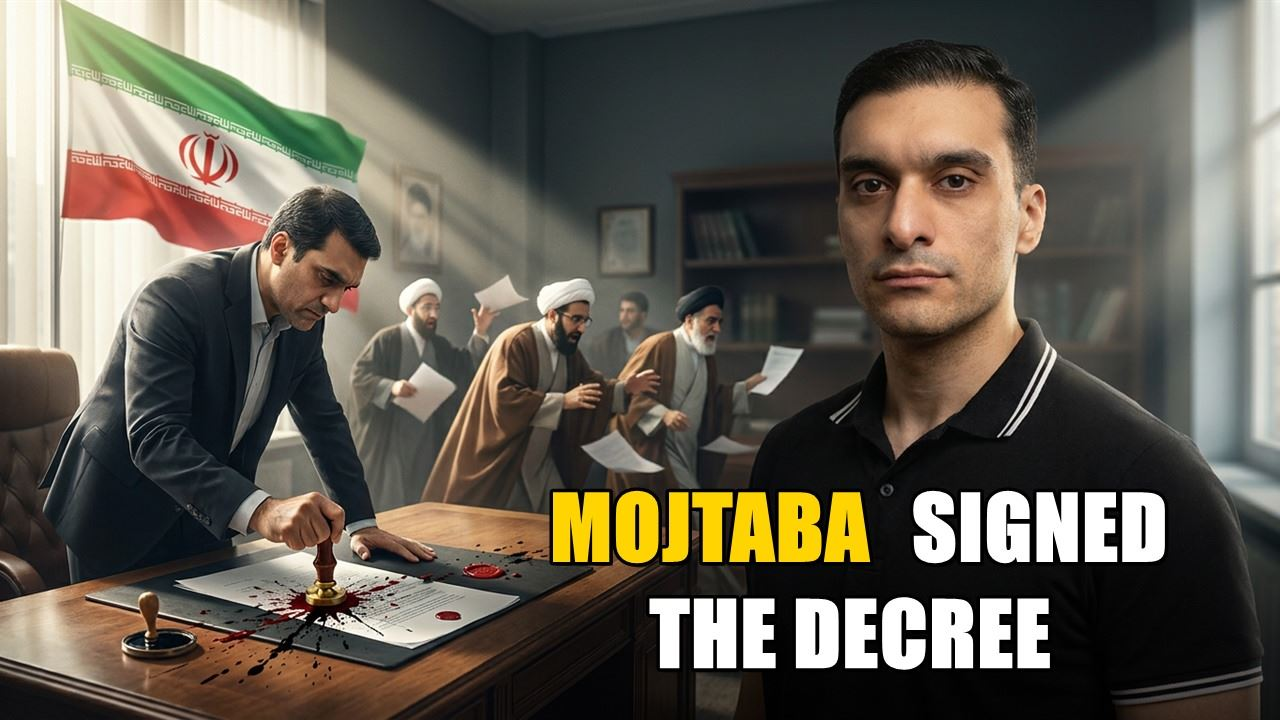
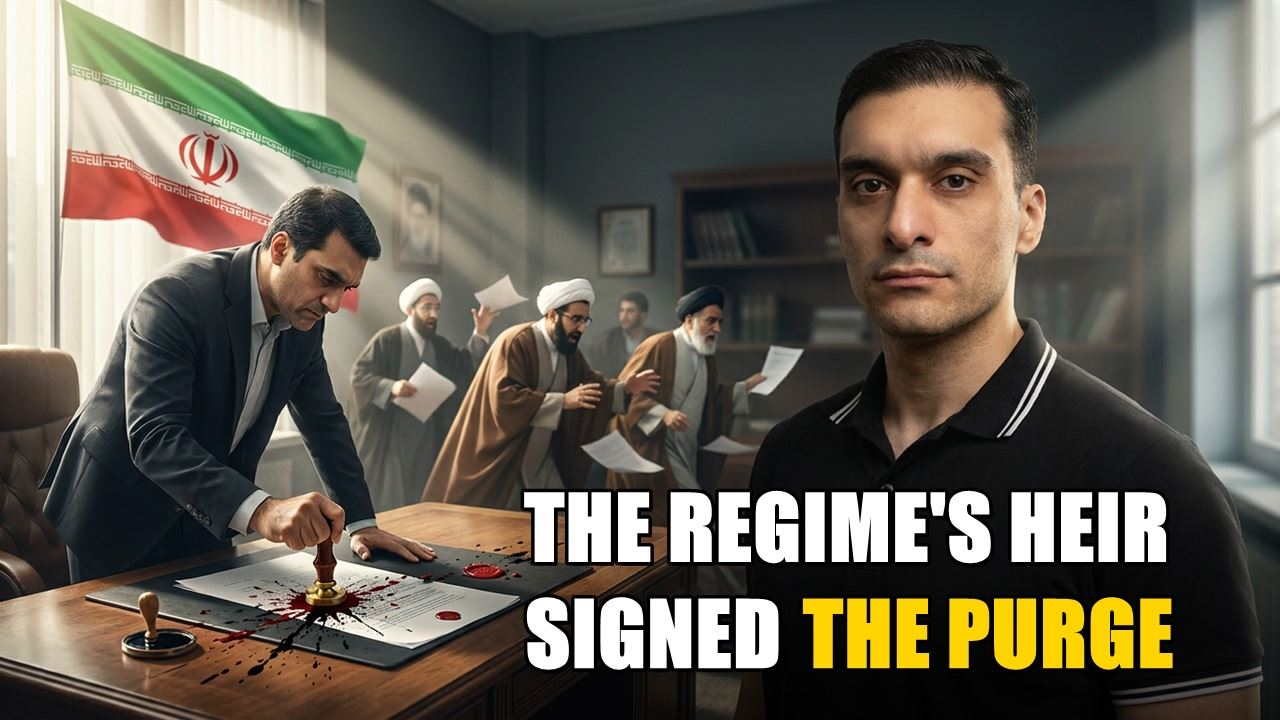
dashboards 2026-08-23T09:31:10Z

Changed region(s): [[0.4062, 0.825, 0.9375, 0.9472], [0.4062, 0.6722, 0.9062, 0.7944]]

diff --git a/armin-shows.html b/armin-shows.html
@@ -270,9 +270,9 @@ dialog img{display:block;max-width:94vw;max-height:88vh}
 </header>
 
 <!-- Self-checking freshness banner: the page compares its own build time against the clock. -->
-<div id="freshbar" class="fresh" data-built="2026-08-23T09:08:21Z">
+<div id="freshbar" class="fresh" data-built="2026-08-23T09:31:08Z">
   <div class="fresh-l">
-    <b id="freshtitle">This page was updated Sun Aug 23, 17:08</b>
+    <b id="freshtitle">This page was updated Sun Aug 23, 17:31</b>
     <span id="freshage"></span>
   </div>
   <span class="newtoday" id="newtoday" data-new="4"
@@ -2761,7 +2761,7 @@ Join our daily group calls: https://www.skool.com/libertypolitics/about</p>
     <div class="vidwhy" hidden><textarea class="vidtext" rows="2" placeholder="Why are you not using this video? e.g. it starts in the middle of a sentence; it repeats the same point twice; the ending is cut off"></textarea></div>
     <div class="means none" aria-live="polite">Not answered yet.</div>
   </div>
-  <div class="cliptime">Added Aug 13 &middot; Covers made Aug 13 &middot; Ready Aug 13 &middot; <b>4:19</b> <span class="nomid">no mid-roll</span></div>
+  <div class="cliptime">Added Aug 13 &middot; Covers made Aug 13 &middot; Ready Aug 23 &middot; <b>4:19</b> <span class="nomid">no mid-roll</span></div>
   <div class="covers">
     <div class="cov" data-var="A" data-head="45 SOVIET GOALS FILED IN CONGRESS" data-title="The 1963 List That Named Every Target: Culture, Media, Schools, Politics, Courts">
       <button class="zoombtn" type="button" aria-label="Enlarge cover A"><img src="img/2026-08-13-english-S2-A.jpg" alt="Cover A: 45 SOVIET GOALS FILED IN CONGRESS" loading="lazy"><span class="zoomhint">Tap to enlarge</span></button>
@@ -2866,7 +2866,7 @@ Join our daily group calls: https://www.skool.com/libertypolitics/about</p>
     <div class="vidwhy" hidden><textarea class="vidtext" rows="2" placeholder="Why are you not using this video? e.g. it starts in the middle of a sentence; it repeats the same point twice; the ending is cut off"></textarea></div>
     <div class="means none" aria-live="polite">Not answered yet.</div>
   </div>
-  <div class="cliptime">Added Aug 13 &middot; Covers made Aug 13 &middot; Ready Aug 13 &middot; <b>4:16</b> <span class="nomid">no mid-roll</span></div>
+  <div class="cliptime">Added Aug 13 &middot; Covers made Aug 13 &middot; Ready Aug 23 &middot; <b>4:16</b> <span class="nomid">no mid-roll</span></div>
   <div class="covers">
     <div class="cov" data-var="C" data-head="TALK TO YOUR MOTHER ABOUT HER GOVERNOR" data-title="Stop Arguing Left Versus Right and Start Arguing Policy (It Works on Family)">
       <button class="zoombtn" type="button" aria-label="Enlarge cover C"><img src="img/2026-08-13-english-S3-C.jpg" alt="Cover C: TALK TO YOUR MOTHER ABOUT HER GOVERNOR" loading="lazy"><span class="zoomhint">Tap to enlarge</span></button>
@@ -2971,7 +2971,7 @@ Join our daily group calls: https://www.skool.com/libertypolitics/about</p>
     <div class="vidwhy" hidden><textarea class="vidtext" rows="2" placeholder="Why are you not using this video? e.g. it starts in the middle of a sentence; it repeats the same point twice; the ending is cut off"></textarea></div>
     <div class="means none" aria-live="polite">Not answered yet.</div>
   </div>
-  <div class="cliptime">Added Aug 13 &middot; Covers made Aug 13 &middot; Ready Aug 13 &middot; <b>5:13</b> <span class="nomid">no mid-roll</span></div>
+  <div class="cliptime">Added Aug 13 &middot; Covers made Aug 13 &middot; Ready Aug 23 &middot; <b>5:13</b> <span class="nomid">no mid-roll</span></div>
   <div class="covers">
     <div class="cov" data-var="A" data-head="ONE PERCENT DECIDES FOUR SWING STATES" data-title="Michigan, Pennsylvania, Georgia, Arizona: How a Tiny Bloc Got This Much Leverage">
       <button class="zoombtn" type="button" aria-label="Enlarge cover A"><img src="img/2026-08-13-english-S4-A.jpg" alt="Cover A: ONE PERCENT DECIDES FOUR SWING STATES" loading="lazy"><span class="zoomhint">Tap to enlarge</span></button>
@@ -3076,7 +3076,7 @@ Join our daily group calls: https://www.skool.com/libertypolitics/about</p>
     <div class="vidwhy" hidden><textarea class="vidtext" rows="2" placeholder="Why are you not using this video? e.g. it starts in the middle of a sentence; it repeats the same point twice; the ending is cut off"></textarea></div>
     <div class="means none" aria-live="polite">Not answered yet.</div>
   </div>
-  <div class="cliptime">Added Aug 13 &middot; Covers made Aug 13 &middot; Ready Aug 13 &middot; <b>10:56</b></div>
+  <div class="cliptime">Added Aug 13 &middot; Covers made Aug 13 &middot; Ready Aug 23 &middot; <b>10:56</b></div>
   <div class="covers">
     <div class="cov" data-var="A" data-head="PURGE THE DSA OR LOSE THE PARTY" data-title="Callers Say the DNC Has to Treat Its Own Left Flank as the Enemy">
       <button class="zoombtn" type="button" aria-label="Enlarge cover A"><img src="img/2026-08-13-english-S5-A.jpg" alt="Cover A: PURGE THE DSA OR LOSE THE PARTY" loading="lazy"><span class="zoomhint">Tap to enlarge</span></button>
@@ -3181,7 +3181,7 @@ Join our daily group calls: https://www.skool.com/libertypolitics/about</p>
     <div class="vidwhy" hidden><textarea class="vidtext" rows="2" placeholder="Why are you not using this video? e.g. it starts in the middle of a sentence; it repeats the same point twice; the ending is cut off"></textarea></div>
     <div class="means none" aria-live="polite">Not answered yet.</div>
   </div>
-  <div class="cliptime">Added Aug 13 &middot; Covers made Aug 13 &middot; Ready Aug 13 &middot; <b>9:39</b></div>
+  <div class="cliptime">Added Aug 13 &middot; Covers made Aug 13 &middot; Ready Aug 23 &middot; <b>9:39</b></div>
   <div class="covers">
     <div class="cov" data-var="A" data-head="YOUR PLUMBER IS NOT AI" data-title="The Trades Are the One Career a Machine Cannot Take From You">
       <button class="zoombtn" type="button" aria-label="Enlarge cover A"><img src="img/2026-08-13-english-S6-A.jpg" alt="Cover A: YOUR PLUMBER IS NOT AI" loading="lazy"><span class="zoomhint">Tap to enlarge</span></button>
@@ -3286,7 +3286,7 @@ Join our daily group calls: https://www.skool.com/libertypolitics/about</p>
     <div class="vidwhy" hidden><textarea class="vidtext" rows="2" placeholder="Why are you not using this video? e.g. it starts in the middle of a sentence; it repeats the same point twice; the ending is cut off"></textarea></div>
     <div class="means none" aria-live="polite">Not answered yet.</div>
   </div>
-  <div class="cliptime">Added Aug 13 &middot; Covers made Aug 13 &middot; Ready Aug 13 &middot; <b>5:39</b> <span class="nomid">no mid-roll</span></div>
+  <div class="cliptime">Added Aug 13 &middot; Covers made Aug 13 &middot; Ready Aug 23 &middot; <b>5:39</b> <span class="nomid">no mid-roll</span></div>
   <div class="covers">
     <div class="cov" data-var="A" data-head="686,263 VOTES, DOWN FROM 1.3 MILLION" data-title="Wisconsin&#39;s Turnout Just Collapsed (And Both Parties Should Be Worried)">
       <button class="zoombtn" type="button" aria-label="Enlarge cover A"><img src="img/2026-08-13-english-S7-A.jpg" alt="Cover A: 686,263 VOTES, DOWN FROM 1.3 MILLION" loading="lazy"><span class="zoomhint">Tap to enlarge</span></button>
@@ -3391,7 +3391,7 @@ Join our daily group calls: https://www.skool.com/libertypolitics/about</p>
     <div class="vidwhy" hidden><textarea class="vidtext" rows="2" placeholder="Why are you not using this video? e.g. it starts in the middle of a sentence; it repeats the same point twice; the ending is cut off"></textarea></div>
     <div class="means none" aria-live="polite">Not answered yet.</div>
   </div>
-  <div class="cliptime">Added Aug 13 &middot; Covers made Aug 22 &middot; Ready Aug 13 &middot; <b>12:58</b></div>
+  <div class="cliptime">Added Aug 13 &middot; Covers made Aug 23 &middot; Ready Aug 23 &middot; <b>12:58</b></div>
   <div class="covers">
     <div class="cov" data-var="A" data-head="GLOBAL TRADE IS AMERICA&#39;S REAL POWER" data-title="Self-Reliance and Isolationism Are Not the Same Word, and the Difference Matters">
       <button class="zoombtn" type="button" aria-label="Enlarge cover A"><img src="img/2026-08-13-english-S8-A.jpg" alt="Cover A: GLOBAL TRADE IS AMERICA&#39;S REAL POWER" loading="lazy"><span class="zoomhint">Tap to enlarge</span></button>
@@ -3417,8 +3417,8 @@ Join our daily group calls: https://www.skool.com/libertypolitics/about</p>
       </div>
       <div class="covwhy" hidden><textarea class="whytext" rows="2" placeholder="Why not this cover? A few words is enough. e.g. that is not Armin, text covers his face, the hosts are too small"></textarea></div>
     </div>
-    <div class="cov" data-var="B" data-head="WHO MARGARET SANGER CALLED UNDESIRABLE" data-title="The Founder&#39;s Own Words, and Where the Clinics Were Actually Built">
-      <button class="zoombtn" type="button" aria-label="Enlarge cover B"><img src="img/2026-08-13-english-S8-B.jpg" alt="Cover B: WHO MARGARET SANGER CALLED UNDESIRABLE" loading="lazy"><span class="zoomhint">Tap to enlarge</span></button>
+    <div class="cov" data-var="B" data-head="THE CLINIC CALLED THEM UNDESIRABLE" data-title="The Founder&#39;s Own Words, and Where the Clinics Were Actually Built">
+      <button class="zoombtn" type="button" aria-label="Enlarge cover B"><img src="img/2026-08-13-english-S8-B.jpg" alt="Cover B: THE CLINIC CALLED THEM UNDESIRABLE" loading="lazy"><span class="zoomhint">Tap to enlarge</span></button>
       <div class="covdec">
         <div class="decq">&#128444;&#65039; This cover B</div>
         <div class="decbtns">
@@ -3496,7 +3496,7 @@ Join our daily group calls: https://www.skool.com/libertypolitics/about</p>
     <div class="vidwhy" hidden><textarea class="vidtext" rows="2" placeholder="Why are you not using this video? e.g. it starts in the middle of a sentence; it repeats the same point twice; the ending is cut off"></textarea></div>
     <div class="means none" aria-live="polite">Not answered yet.</div>
   </div>
-  <div class="cliptime">Added Aug 13 &middot; Covers made Aug 13 &middot; Ready Aug 13 &middot; <b>14:20</b></div>
+  <div class="cliptime">Added Aug 13 &middot; Covers made Aug 13 &middot; Ready Aug 23 &middot; <b>14:20</b></div>
   <div class="covers">
     <div class="cov" data-var="A" data-head="TWO THOUSAND SQUARE KILOMETRES OF OIL" data-title="700 Fish Species, 60 Coral Reefs and Five Kinds of Sea Turtle Are In It">
       <button class="zoombtn" type="button" aria-label="Enlarge cover A"><img src="img/2026-08-13-english-S9-A.jpg" alt="Cover A: TWO THOUSAND SQUARE KILOMETRES OF OIL" loading="lazy"><span class="zoomhint">Tap to enlarge</span></button>
@@ -3601,7 +3601,7 @@ Join our daily group calls: https://www.skool.com/libertypolitics/about</p>
     <div class="vidwhy" hidden><textarea class="vidtext" rows="2" placeholder="Why are you not using this video? e.g. it starts in the middle of a sentence; it repeats the same point twice; the ending is cut off"></textarea></div>
     <div class="means none" aria-live="polite">Not answered yet.</div>
   </div>
-  <div class="cliptime">Added Aug 13 &middot; Covers made Aug 13 &middot; Ready Aug 13 &middot; <b>2:43</b> <span class="nomid">no mid-roll</span></div>
+  <div class="cliptime">Added Aug 13 &middot; Covers made Aug 13 &middot; Ready Aug 23 &middot; <b>2:43</b> <span class="nomid">no mid-roll</span></div>
   <div class="covers">
     <div class="cov" data-var="A" data-head="850 DETAINED? NOBODY CAN SOURCE IT" data-title="Reports of Mass Arrests of Iranian Rabbis, Checked Live On Air">
       <button class="zoombtn" type="button" aria-label="Enlarge cover A"><img src="img/2026-08-13-english-S10-A.jpg" alt="Cover A: 850 DETAINED? NOBODY CAN SOURCE IT" loading="lazy"><span class="zoomhint">Tap to enlarge</span></button>
@@ -3706,7 +3706,7 @@ Join our daily group calls: https://www.skool.com/libertypolitics/about</p>
     <div class="vidwhy" hidden><textarea class="vidtext" rows="2" placeholder="Why are you not using this video? e.g. it starts in the middle of a sentence; it repeats the same point twice; the ending is cut off"></textarea></div>
     <div class="means none" aria-live="polite">Not answered yet.</div>
   </div>
-  <div class="cliptime">Added Aug 13 &middot; Covers made Aug 13 &middot; Ready Aug 13 &middot; <b>17:13</b></div>
+  <div class="cliptime">Added Aug 13 &middot; Covers made Aug 13 &middot; Ready Aug 23 &middot; <b>17:13</b></div>
   <div class="covers">
     <div class="cov" data-var="A" data-head="THE UK BANNED HASAN PIKER" data-title="The Home Office Called Him a Risk to Public Order, and Made Him Bigger">
       <button class="zoombtn" type="button" aria-label="Enlarge cover A"><img src="img/2026-08-13-english-S11-A.jpg" alt="Cover A: THE UK BANNED HASAN PIKER" loading="lazy"><span class="zoomhint">Tap to enlarge</span></button>
@@ -5446,7 +5446,7 @@ Join our daily group calls: https://www.skool.com/libertypolitics/about</p>
     <div class="vidwhy" hidden><textarea class="vidtext" rows="2" placeholder="Why are you not using this video? e.g. it starts in the middle of a sentence; it repeats the same point twice; the ending is cut off"></textarea></div>
     <div class="means none" aria-live="polite">Not answered yet.</div>
   </div>
-  <div class="cliptime">Added Aug 9 &middot; Covers made Aug 10 &middot; Ready Aug 22 &middot; <b>3:10</b> <span class="nomid">no mid-roll</span></div>
+  <div class="cliptime">Added Aug 9 &middot; Covers made Aug 10 &middot; Ready Aug 23 &middot; <b>3:10</b> <span class="nomid">no mid-roll</span></div>
   <div class="covers">
     <div class="cov" data-var="A" data-head="THE REGIME WANTS WAR DAMAGES PAID" data-title="Iran Is Now Asking America to Cover Its Losses">
       <button class="zoombtn" type="button" aria-label="Enlarge cover A"><img src="img/2026-08-10-english-S1-A.jpg" alt="Cover A: THE REGIME WANTS WAR DAMAGES PAID" loading="lazy"><span class="zoomhint">Tap to enlarge</span></button>
@@ -5551,7 +5551,7 @@ Join our daily group calls: https://www.skool.com/libertypolitics/about</p>
     <div class="vidwhy" hidden><textarea class="vidtext" rows="2" placeholder="Why are you not using this video? e.g. it starts in the middle of a sentence; it repeats the same point twice; the ending is cut off"></textarea></div>
     <div class="means none" aria-live="polite">Not answered yet.</div>
   </div>
-  <div class="cliptime">Added Aug 9 &middot; Covers made Aug 10 &middot; Ready Aug 22 &middot; <b>6:35</b> <span class="nomid">no mid-roll</span></div>
+  <div class="cliptime">Added Aug 9 &middot; Covers made Aug 10 &middot; Ready Aug 23 &middot; <b>6:35</b> <span class="nomid">no mid-roll</span></div>
   <div class="covers">
     <div class="cov" data-var="A" data-head="TEHRAN&#39;S CLERIC WANTS A STRIKE" data-title="The Mullah Telling Iran to Build the Bomb and Fire It">
       <button class="zoombtn" type="button" aria-label="Enlarge cover A"><img src="img/2026-08-10-english-S2-A.jpg" alt="Cover A: TEHRAN&#39;S CLERIC WANTS A STRIKE" loading="lazy"><span class="zoomhint">Tap to enlarge</span></button>
@@ -5656,7 +5656,7 @@ Join our daily group calls: https://www.skool.com/libertypolitics/about</p>
     <div class="vidwhy" hidden><textarea class="vidtext" rows="2" placeholder="Why are you not using this video? e.g. it starts in the middle of a sentence; it repeats the same point twice; the ending is cut off"></textarea></div>
     <div class="means none" aria-live="polite">Not answered yet.</div>
   </div>
-  <div class="cliptime">Added Aug 9 &middot; Covers made Aug 10 &middot; Ready Aug 22 &middot; <b>2:45</b> <span class="nomid">no mid-roll</span></div>
+  <div class="cliptime">Added Aug 9 &middot; Covers made Aug 10 &middot; Ready Aug 23 &middot; <b>2:45</b> <span class="nomid">no mid-roll</span></div>
   <div class="covers">
     <div class="cov" data-var="A" data-head="THREE RULERS ONE COUNTRY" data-title="Iran Has No Single Government Left to Negotiate With">
       <button class="zoombtn" type="button" aria-label="Enlarge cover A"><img src="img/2026-08-10-english-S3-A.jpg" alt="Cover A: THREE RULERS ONE COUNTRY" loading="lazy"><span class="zoomhint">Tap to enlarge</span></button>
@@ -5737,7 +5737,7 @@ Join our daily group calls: https://www.skool.com/libertypolitics/about</p>
     <div class="vidwhy" hidden><textarea class="vidtext" rows="2" placeholder="Why are you not using this video? e.g. it starts in the middle of a sentence; it repeats the same point twice; the ending is cut off"></textarea></div>
     <div class="means none" aria-live="polite">Not answered yet.</div>
   </div>
-  <div class="cliptime">Added Aug 9 &middot; Covers made Aug 10 &middot; Ready Aug 22 &middot; <b>1:35</b> <span class="nomid">no mid-roll</span></div>
+  <div class="cliptime">Added Aug 9 &middot; Covers made Aug 10 &middot; Ready Aug 23 &middot; <b>1:35</b> <span class="nomid">no mid-roll</span></div>
   <div class="covers">
     <div class="cov" data-var="A" data-head="THE PRESS INFLATED AN ARMY" data-title="How Newspapers Manufactured a Revolution in 1959">
       <button class="zoombtn" type="button" aria-label="Enlarge cover A"><img src="img/2026-08-10-english-S4-A.jpg" alt="Cover A: THE PRESS INFLATED AN ARMY" loading="lazy"><span class="zoomhint">Tap to enlarge</span></button>
@@ -5842,7 +5842,7 @@ Join our daily group calls: https://www.skool.com/libertypolitics/about</p>
     <div class="vidwhy" hidden><textarea class="vidtext" rows="2" placeholder="Why are you not using this video? e.g. it starts in the middle of a sentence; it repeats the same point twice; the ending is cut off"></textarea></div>
     <div class="means none" aria-live="polite">Not answered yet.</div>
   </div>
-  <div class="cliptime">Added Aug 9 &middot; Covers made Aug 10 &middot; Ready Aug 22 &middot; <b>2:26</b> <span class="nomid">no mid-roll</span></div>
+  <div class="cliptime">Added Aug 9 &middot; Covers made Aug 10 &middot; Ready Aug 23 &middot; <b>2:26</b> <span class="nomid">no mid-roll</span></div>
   <div class="covers">
     <div class="cov" data-var="A" data-head="WASHINGTON IS BUYING TIME" data-title="Why America Has Not Struck Iran Yet">
       <button class="zoombtn" type="button" aria-label="Enlarge cover A"><img src="img/2026-08-10-english-S5-A.jpg" alt="Cover A: WASHINGTON IS BUYING TIME" loading="lazy"><span class="zoomhint">Tap to enlarge</span></button>
@@ -5947,10 +5947,10 @@ Join our daily group calls: https://www.skool.com/libertypolitics/about</p>
     <div class="vidwhy" hidden><textarea class="vidtext" rows="2" placeholder="Why are you not using this video? e.g. it starts in the middle of a sentence; it repeats the same point twice; the ending is cut off"></textarea></div>
     <div class="means none" aria-live="polite">Not answered yet.</div>
   </div>
-  <div class="cliptime">Added Aug 9 &middot; Covers made Aug 22 &middot; Ready Aug 22 &middot; <b>4:13</b> <span class="nomid">no mid-roll</span></div>
+  <div class="cliptime">Added Aug 9 &middot; Covers made Aug 23 &middot; Ready Aug 23 &middot; <b>4:13</b> <span class="nomid">no mid-roll</span></div>
   <div class="covers">
-    <div class="cov" data-var="A" data-head="MOJTABA SIGNED THE DECREE" data-title="Khamenei&#39;s Son Now Has His Name on Iran&#39;s Security Orders">
-      <button class="zoombtn" type="button" aria-label="Enlarge cover A"><img src="img/2026-08-10-english-S6-A.jpg" alt="Cover A: MOJTABA SIGNED THE DECREE" loading="lazy"><span class="zoomhint">Tap to enlarge</span></button>
+    <div class="cov" data-var="A" data-head="THE REGIME&#39;S HEIR SIGNED THE PURGE" data-title="Khamenei&#39;s Son Now Has His Name on Iran&#39;s Security Orders">
+      <button class="zoombtn" type="button" aria-label="Enlarge cover A"><img src="img/2026-08-10-english-S6-A.jpg" alt="Cover A: THE REGIME&#39;S HEIR SIGNED THE PURGE" loading="lazy"><span class="zoomhint">Tap to enlarge</span></button>
       <div class="covdec">
         <div class="decq">&#128444;&#65039; This cover A</div>
         <div class="decbtns">
@@ -6052,7 +6052,7 @@ Join our daily group calls: https://www.skool.com/libertypolitics/about</p>
     <div class="vidwhy" hidden><textarea class="vidtext" rows="2" placeholder="Why are you not using this video? e.g. it starts in the middle of a sentence; it repeats the same point twice; the ending is cut off"></textarea></div>
     <div class="means none" aria-live="polite">Not answered yet.</div>
   </div>
-  <div class="cliptime">Added Aug 9 &middot; Covers made Aug 10 &middot; Ready Aug 22 &middot; <b>9:45</b></div>
+  <div class="cliptime">Added Aug 9 &middot; Covers made Aug 10 &middot; Ready Aug 23 &middot; <b>9:45</b></div>
   <div class="covers">
     <div class="cov" data-var="A" data-head="BANNED IDEAS SPREAD FASTER" data-title="Why Censorship Feeds the Thing It Targets">
       <button class="zoombtn" type="button" aria-label="Enlarge cover A"><img src="img/2026-08-10-english-S12-A.jpg" alt="Cover A: BANNED IDEAS SPREAD FASTER" loading="lazy"><span class="zoomhint">Tap to enlarge</span></button>
@@ -6165,7 +6165,7 @@ Join our daily group calls: https://www.skool.com/libertypolitics/about</p>
     <div class="vidwhy" hidden><textarea class="vidtext" rows="2" placeholder="Why are you not using this video? e.g. it starts in the middle of a sentence; it repeats the same point twice; the ending is cut off"></textarea></div>
     <div class="means none" aria-live="polite">Not answered yet.</div>
   </div>
-  <div class="cliptime">Added Aug 9 &middot; Covers made Aug 10 &middot; Ready Aug 22 &middot; <b>4:15</b> <span class="nomid">no mid-roll</span></div>
+  <div class="cliptime">Added Aug 9 &middot; Covers made Aug 10 &middot; Ready Aug 23 &middot; <b>4:15</b> <span class="nomid">no mid-roll</span></div>
   <div class="covers">
     <div class="cov" data-var="A" data-head="A CASHIER GOT 229000" data-title="Fired From Burger King, Then Handed a Small Fortune">
       <button class="zoombtn" type="button" aria-label="Enlarge cover A"><img src="img/2026-08-10-english-S13-A.jpg" alt="Cover A: A CASHIER GOT 229000" loading="lazy"><span class="zoomhint">Tap to enlarge</span></button>

diff --git a/ali-costreams.html b/ali-costreams.html
@@ -270,9 +270,9 @@ dialog img{display:block;max-width:94vw;max-height:88vh}
 </header>
 
 <!-- Self-checking freshness banner: the page compares its own build time against the clock. -->
-<div id="freshbar" class="fresh" data-built="2026-08-23T08:57:32Z">
+<div id="freshbar" class="fresh" data-built="2026-08-23T09:20:19Z">
   <div class="fresh-l">
-    <b id="freshtitle">This page was updated Sun Aug 23, 16:57</b>
+    <b id="freshtitle">This page was updated Sun Aug 23, 17:20</b>
     <span id="freshage"></span>
   </div>
   <span class="newtoday" id="newtoday" data-new="3"
@@ -6783,7 +6783,7 @@ Talk to Ali in his group calls: https://www.skool.com/libertypolitics/about?ref=
     <div class="vidwhy" hidden><textarea class="vidtext" rows="2" placeholder="Why are you not using this video? e.g. it starts in the middle of a sentence; it repeats the same point twice; the ending is cut off"></textarea></div>
     <div class="means none" aria-live="polite">Not answered yet.</div>
   </div>
-  <div class="cliptime">Added Aug 10 &middot; Covers made Aug 10 &middot; Ready Aug 10 &middot; <b>3:22</b> <span class="nomid">no mid-roll</span></div>
+  <div class="cliptime">Added Aug 10 &middot; Covers made Aug 10 &middot; Ready Aug 23 &middot; <b>3:22</b> <span class="nomid">no mid-roll</span></div>
   <div class="covers">
     <div class="cov" data-var="A" data-head="US BOMBS HIT SIRIK PORT" data-title="Iran Loses a Working Port on Its Southern Coast">
       <button class="zoombtn" type="button" aria-label="Enlarge cover A"><img src="img/2026-08-10-ali-S1-A.jpg" alt="Cover A: US BOMBS HIT SIRIK PORT" loading="lazy"><span class="zoomhint">Tap to enlarge</span></button>
@@ -6863,7 +6863,7 @@ Talk to Ali in his group calls: https://www.skool.com/libertypolitics/about?ref=
     <div class="vidwhy" hidden><textarea class="vidtext" rows="2" placeholder="Why are you not using this video? e.g. it starts in the middle of a sentence; it repeats the same point twice; the ending is cut off"></textarea></div>
     <div class="means none" aria-live="polite">Not answered yet.</div>
   </div>
-  <div class="cliptime">Added Aug 10 &middot; Covers made Aug 10 &middot; Ready Aug 10 &middot; <b>3:30</b> <span class="nomid">no mid-roll</span></div>
+  <div class="cliptime">Added Aug 10 &middot; Covers made Aug 10 &middot; Ready Aug 23 &middot; <b>3:30</b> <span class="nomid">no mid-roll</span></div>
   <div class="covers">
     <div class="cov" data-var="B" data-head="The Mecca Alliance Just Got Tested" data-title="The Mecca Alliance Meets Its First Real Test">
       <button class="zoombtn" type="button" aria-label="Enlarge cover B"><img src="img/2026-08-10-ali-S2-B.jpg" alt="Cover B: The Mecca Alliance Just Got Tested" loading="lazy"><span class="zoomhint">Tap to enlarge</span></button>
@@ -6943,7 +6943,7 @@ Talk to Ali in his group calls: https://www.skool.com/libertypolitics/about?ref=
     <div class="vidwhy" hidden><textarea class="vidtext" rows="2" placeholder="Why are you not using this video? e.g. it starts in the middle of a sentence; it repeats the same point twice; the ending is cut off"></textarea></div>
     <div class="means none" aria-live="polite">Not answered yet.</div>
   </div>
-  <div class="cliptime">Added Aug 10 &middot; Covers made Aug 10 &middot; Ready Aug 10 &middot; <b>4:50</b> <span class="nomid">no mid-roll</span></div>
+  <div class="cliptime">Added Aug 10 &middot; Covers made Aug 10 &middot; Ready Aug 23 &middot; <b>4:50</b> <span class="nomid">no mid-roll</span></div>
   <div class="covers">
     <div class="cov" data-var="B" data-head="Saudi Arabia Found Its Escape Hatch" data-title="The Loophole Saudi Arabia Is Using to Avoid a War">
       <button class="zoombtn" type="button" aria-label="Enlarge cover B"><img src="img/2026-08-10-ali-S3-B.jpg" alt="Cover B: Saudi Arabia Found Its Escape Hatch" loading="lazy"><span class="zoomhint">Tap to enlarge</span></button>
@@ -7047,7 +7047,7 @@ Talk to Ali in his group calls: https://www.skool.com/libertypolitics/about?ref=
     <div class="vidwhy" hidden><textarea class="vidtext" rows="2" placeholder="Why are you not using this video? e.g. it starts in the middle of a sentence; it repeats the same point twice; the ending is cut off"></textarea></div>
     <div class="means none" aria-live="polite">Not answered yet.</div>
   </div>
-  <div class="cliptime">Added Aug 10 &middot; Covers made Aug 10 &middot; Ready Aug 10 &middot; <b>2:48</b> <span class="nomid">no mid-roll</span></div>
+  <div class="cliptime">Added Aug 10 &middot; Covers made Aug 10 &middot; Ready Aug 23 &middot; <b>2:48</b> <span class="nomid">no mid-roll</span></div>
   <div class="covers">
     <div class="cov" data-var="A" data-head="WASHINGTON IS PUNISHING RIYADH" data-title="Washington Is Squeezing Riyadh, Not Defending It">
       <button class="zoombtn" type="button" aria-label="Enlarge cover A"><img src="img/2026-08-10-ali-S4-A.jpg" alt="Cover A: WASHINGTON IS PUNISHING RIYADH" loading="lazy"><span class="zoomhint">Tap to enlarge</span></button>
@@ -7127,7 +7127,7 @@ Talk to Ali in his group calls: https://www.skool.com/libertypolitics/about?ref=
     <div class="vidwhy" hidden><textarea class="vidtext" rows="2" placeholder="Why are you not using this video? e.g. it starts in the middle of a sentence; it repeats the same point twice; the ending is cut off"></textarea></div>
     <div class="means none" aria-live="polite">Not answered yet.</div>
   </div>
-  <div class="cliptime">Added Aug 10 &middot; Covers made Aug 10 &middot; Ready Aug 10 &middot; <b>3:30</b> <span class="nomid">no mid-roll</span></div>
+  <div class="cliptime">Added Aug 10 &middot; Covers made Aug 10 &middot; Ready Aug 23 &middot; <b>3:30</b> <span class="nomid">no mid-roll</span></div>
   <div class="covers">
     <div class="cov" data-var="A" data-head="A US CARRIER IS HEADING FOR IRAN" data-title="A US Carrier Group Moves Into Range of Iran">
       <button class="zoombtn" type="button" aria-label="Enlarge cover A"><img src="img/2026-08-10-ali-S5-A.jpg" alt="Cover A: A US CARRIER IS HEADING FOR IRAN" loading="lazy"><span class="zoomhint">Tap to enlarge</span></button>
@@ -7207,7 +7207,7 @@ Talk to Ali in his group calls: https://www.skool.com/libertypolitics/about?ref=
     <div class="vidwhy" hidden><textarea class="vidtext" rows="2" placeholder="Why are you not using this video? e.g. it starts in the middle of a sentence; it repeats the same point twice; the ending is cut off"></textarea></div>
     <div class="means none" aria-live="polite">Not answered yet.</div>
   </div>
-  <div class="cliptime">Added Aug 10 &middot; Covers made Aug 10 &middot; Ready Aug 10 &middot; <b>7:50</b> <span class="nomid">no mid-roll</span></div>
+  <div class="cliptime">Added Aug 10 &middot; Covers made Aug 10 &middot; Ready Aug 23 &middot; <b>7:50</b> <span class="nomid">no mid-roll</span></div>
   <div class="covers">
     <div class="cov" data-var="B" data-head="The Red Sea Is Now a Front" data-title="What Houthi Attacks Do to Global Shipping">
       <button class="zoombtn" type="button" aria-label="Enlarge cover B"><img src="img/2026-08-10-ali-S6-B.jpg" alt="Cover B: The Red Sea Is Now a Front" loading="lazy"><span class="zoomhint">Tap to enlarge</span></button>
@@ -7287,7 +7287,7 @@ Talk to Ali in his group calls: https://www.skool.com/libertypolitics/about?ref=
     <div class="vidwhy" hidden><textarea class="vidtext" rows="2" placeholder="Why are you not using this video? e.g. it starts in the middle of a sentence; it repeats the same point twice; the ending is cut off"></textarea></div>
     <div class="means none" aria-live="polite">Not answered yet.</div>
   </div>
-  <div class="cliptime">Added Aug 10 &middot; Covers made Aug 10 &middot; Ready Aug 10 &middot; <b>8:10</b></div>
+  <div class="cliptime">Added Aug 10 &middot; Covers made Aug 10 &middot; Ready Aug 23 &middot; <b>8:10</b></div>
   <div class="covers">
     <div class="cov" data-var="B" data-head="The Regime Asked for the Impossible" data-title="What Tehran Actually Asked For">
       <button class="zoombtn" type="button" aria-label="Enlarge cover B"><img src="img/2026-08-10-ali-S7-B.jpg" alt="Cover B: The Regime Asked for the Impossible" loading="lazy"><span class="zoomhint">Tap to enlarge</span></button>
@@ -7391,7 +7391,7 @@ Talk to Ali in his group calls: https://www.skool.com/libertypolitics/about?ref=
     <div class="vidwhy" hidden><textarea class="vidtext" rows="2" placeholder="Why are you not using this video? e.g. it starts in the middle of a sentence; it repeats the same point twice; the ending is cut off"></textarea></div>
     <div class="means none" aria-live="polite">Not answered yet.</div>
   </div>
-  <div class="cliptime">Added Aug 10 &middot; Covers made Aug 22 &middot; Ready Aug 10 &middot; <b>15:26</b></div>
+  <div class="cliptime">Added Aug 10 &middot; Covers made Aug 23 &middot; Ready Aug 23 &middot; <b>15:26</b></div>
   <div class="covers">
     <div class="cov" data-var="A" data-head="MOHSEN REZAEI JUST TOOK OVER" data-title="Mohsen Rezaei Takes Over Iran&#39;s War Command">
       <button class="zoombtn" type="button" aria-label="Enlarge cover A"><img src="img/2026-08-10-ali-S8-A.jpg" alt="Cover A: MOHSEN REZAEI JUST TOOK OVER" loading="lazy"><span class="zoomhint">Tap to enlarge</span></button>
@@ -7417,8 +7417,8 @@ Talk to Ali in his group calls: https://www.skool.com/libertypolitics/about?ref=
       </div>
       <div class="covwhy" hidden><textarea class="whytext" rows="2" placeholder="Why not this cover? A few words is enough. e.g. that is not Armin, text covers his face, the hosts are too small"></textarea></div>
     </div>
-    <div class="cov" data-var="B" data-head="Zolghadr Is Out. Rezaei Is In." data-title="Zolghadr Is Removed and the Hardliners Move In">
-      <button class="zoombtn" type="button" aria-label="Enlarge cover B"><img src="img/2026-08-10-ali-S8-B.jpg" alt="Cover B: Zolghadr Is Out. Rezaei Is In." loading="lazy"><span class="zoomhint">Tap to enlarge</span></button>
+    <div class="cov" data-var="B" data-head="IRAN&#39;S WAR COMMAND CHANGED HANDS" data-title="Zolghadr Is Removed and the Hardliners Move In">
+      <button class="zoombtn" type="button" aria-label="Enlarge cover B"><img src="img/2026-08-10-ali-S8-B.jpg" alt="Cover B: IRAN&#39;S WAR COMMAND CHANGED HANDS" loading="lazy"><span class="zoomhint">Tap to enlarge</span></button>
       <div class="covdec">
         <div class="decq">&#128444;&#65039; This cover B</div>
         <div class="decbtns">
@@ -7495,7 +7495,7 @@ Talk to Ali in his group calls: https://www.skool.com/libertypolitics/about?ref=
     <div class="vidwhy" hidden><textarea class="vidtext" rows="2" placeholder="Why are you not using this video? e.g. it starts in the middle of a sentence; it repeats the same point twice; the ending is cut off"></textarea></div>
     <div class="means none" aria-live="polite">Not answered yet.</div>
   </div>
-  <div class="cliptime">Added Aug 10 &middot; Covers made Aug 10 &middot; Ready Aug 10 &middot; <b>6:35</b> <span class="nomid">no mid-roll</span></div>
+  <div class="cliptime">Added Aug 10 &middot; Covers made Aug 10 &middot; Ready Aug 23 &middot; <b>6:35</b> <span class="nomid">no mid-roll</span></div>
   <div class="covers">
     <div class="cov" data-var="A" data-head="KHARG ISLAND HAS STOPPED LOADING" data-title="Kharg Island Has Stopped Loading Oil">
       <button class="zoombtn" type="button" aria-label="Enlarge cover A"><img src="img/2026-08-10-ali-S9-A.jpg" alt="Cover A: KHARG ISLAND HAS STOPPED LOADING" loading="lazy"><span class="zoomhint">Tap to enlarge</span></button>
@@ -7599,7 +7599,7 @@ Talk to Ali in his group calls: https://www.skool.com/libertypolitics/about?ref=
     <div class="vidwhy" hidden><textarea class="vidtext" rows="2" placeholder="Why are you not using this video? e.g. it starts in the middle of a sentence; it repeats the same point twice; the ending is cut off"></textarea></div>
     <div class="means none" aria-live="polite">Not answered yet.</div>
   </div>
-  <div class="cliptime">Added Aug 10 &middot; Covers made Aug 10 &middot; Ready Aug 10 &middot; <b>8:25</b></div>
+  <div class="cliptime">Added Aug 10 &middot; Covers made Aug 10 &middot; Ready Aug 23 &middot; <b>8:25</b></div>
   <div class="covers">
     <div class="cov" data-var="B" data-head="Ankara Is Building on the Iran Border" data-title="What Ankara Is Preparing For (And Why Now)">
       <button class="zoombtn" type="button" aria-label="Enlarge cover B"><img src="img/2026-08-10-ali-S10-B.jpg" alt="Cover B: Ankara Is Building on the Iran Border" loading="lazy"><span class="zoomhint">Tap to enlarge</span></button>
@@ -7679,7 +7679,7 @@ Talk to Ali in his group calls: https://www.skool.com/libertypolitics/about?ref=
     <div class="vidwhy" hidden><textarea class="vidtext" rows="2" placeholder="Why are you not using this video? e.g. it starts in the middle of a sentence; it repeats the same point twice; the ending is cut off"></textarea></div>
     <div class="means none" aria-live="polite">Not answered yet.</div>
   </div>
-  <div class="cliptime">Added Aug 10 &middot; Covers made Aug 10 &middot; Ready Aug 10 &middot; <b>6:37</b> <span class="nomid">no mid-roll</span></div>
+  <div class="cliptime">Added Aug 10 &middot; Covers made Aug 10 &middot; Ready Aug 23 &middot; <b>6:37</b> <span class="nomid">no mid-roll</span></div>
   <div class="covers">
     <div class="cov" data-var="B" data-head="What Really Happened on January 8" data-title="January 8 and 9, and the Number Tehran Published">
       <button class="zoombtn" type="button" aria-label="Enlarge cover B"><img src="img/2026-08-10-ali-S11-B.jpg" alt="Cover B: What Really Happened on January 8" loading="lazy"><span class="zoomhint">Tap to enlarge</span></button>
@@ -7783,7 +7783,7 @@ Talk to Ali in his group calls: https://www.skool.com/libertypolitics/about?ref=
     <div class="vidwhy" hidden><textarea class="vidtext" rows="2" placeholder="Why are you not using this video? e.g. it starts in the middle of a sentence; it repeats the same point twice; the ending is cut off"></textarea></div>
     <div class="means none" aria-live="polite">Not answered yet.</div>
   </div>
-  <div class="cliptime">Added Aug 10 &middot; Covers made Aug 10 &middot; Ready Aug 10 &middot; <b>8:48</b></div>
+  <div class="cliptime">Added Aug 10 &middot; Covers made Aug 10 &middot; Ready Aug 23 &middot; <b>8:48</b></div>
   <div class="covers">
     <div class="cov" data-var="C" data-head="A NATION IS DEMANDING TO BE ARMED" data-title="What Arming Iranians Would Actually Mean (In Practice)">
       <button class="zoombtn" type="button" aria-label="Enlarge cover C"><img src="img/2026-08-10-ali-S12-C.jpg" alt="Cover C: A NATION IS DEMANDING TO BE ARMED" loading="lazy"><span class="zoomhint">Tap to enlarge</span></button>
@@ -7839,7 +7839,7 @@ Talk to Ali in his group calls: https://www.skool.com/libertypolitics/about?ref=
     <div class="vidwhy" hidden><textarea class="vidtext" rows="2" placeholder="Why are you not using this video? e.g. it starts in the middle of a sentence; it repeats the same point twice; the ending is cut off"></textarea></div>
     <div class="means none" aria-live="polite">Not answered yet.</div>
   </div>
-  <div class="cliptime">Added Aug 10 &middot; Covers made Aug 22 &middot; Ready Aug 10 &middot; <b>5:54</b> <span class="nomid">no mid-roll</span></div>
+  <div class="cliptime">Added Aug 10 &middot; Covers made Aug 22 &middot; Ready Aug 23 &middot; <b>5:54</b> <span class="nomid">no mid-roll</span></div>
   <div class="covers">
     <div class="cov" data-var="A" data-head="NETANYAHU JUST TOLD TRUMP NO" data-title="Netanyahu Pushes Back on Trump in Public">
       <button class="zoombtn" type="button" aria-label="Enlarge cover A"><img src="img/2026-08-10-ali-S13-A.jpg" alt="Cover A: NETANYAHU JUST TOLD TRUMP NO" loading="lazy"><span class="zoomhint">Tap to enlarge</span></button>
@@ -7919,7 +7919,7 @@ Talk to Ali in his group calls: https://www.skool.com/libertypolitics/about?ref=
     <div class="vidwhy" hidden><textarea class="vidtext" rows="2" placeholder="Why are you not using this video? e.g. it starts in the middle of a sentence; it repeats the same point twice; the ending is cut off"></textarea></div>
     <div class="means none" aria-live="polite">Not answered yet.</div>
   </div>
-  <div class="cliptime">Added Aug 10 &middot; Covers made Aug 10 &middot; Ready Aug 10 &middot; <b>5:15</b> <span class="nomid">no mid-roll</span></div>
+  <div class="cliptime">Added Aug 10 &middot; Covers made Aug 10 &middot; Ready Aug 23 &middot; <b>5:15</b> <span class="nomid">no mid-roll</span></div>
   <div class="covers">
     <div class="cov" data-var="A" data-head="IRANIANS ARE REJECTING FEDERALISM" data-title="Most Iranians Reject the Federalism Proposals">
       <button class="zoombtn" type="button" aria-label="Enlarge cover A"><img src="img/2026-08-10-ali-S14-A.jpg" alt="Cover A: IRANIANS ARE REJECTING FEDERALISM" loading="lazy"><span class="zoomhint">Tap to enlarge</span></button>
@@ -7999,7 +7999,7 @@ Talk to Ali in his group calls: https://www.skool.com/libertypolitics/about?ref=
     <div class="vidwhy" hidden><textarea class="vidtext" rows="2" placeholder="Why are you not using this video? e.g. it starts in the middle of a sentence; it repeats the same point twice; the ending is cut off"></textarea></div>
     <div class="means none" aria-live="polite">Not answered yet.</div>
   </div>
-  <div class="cliptime">Added Aug 10 &middot; Covers made Aug 10 &middot; Ready Aug 10 &middot; <b>1:50</b> <span class="nomid">no mid-roll</span></div>
+  <div class="cliptime">Added Aug 10 &middot; Covers made Aug 10 &middot; Ready Aug 23 &middot; <b>1:50</b> <span class="nomid">no mid-roll</span></div>
   <div class="covers">
     <div class="cov" data-var="A" data-head="FREE SPEECH IS NOT WHAT YOU THINK" data-title="What Freedom of Speech Actually Protects (Explained Simply)">
       <button class="zoombtn" type="button" aria-label="Enlarge cover A"><img src="img/2026-08-10-ali-S15-A.jpg" alt="Cover A: FREE SPEECH IS NOT WHAT YOU THINK" loading="lazy"><span class="zoomhint">Tap to enlarge</span></button>
@@ -8103,7 +8103,7 @@ Talk to Ali in his group calls: https://www.skool.com/libertypolitics/about?ref=
     <div class="vidwhy" hidden><textarea class="vidtext" rows="2" placeholder="Why are you not using this video? e.g. it starts in the middle of a sentence; it repeats the same point twice; the ending is cut off"></textarea></div>
     <div class="means none" aria-live="polite">Not answered yet.</div>
   </div>
-  <div class="cliptime">Added Aug 10 &middot; Covers made Aug 10 &middot; Ready Aug 10 &middot; <b>0:48</b> <span class="nomid">no mid-roll</span></div>
+  <div class="cliptime">Added Aug 10 &middot; Covers made Aug 10 &middot; Ready Aug 23 &middot; <b>0:48</b> <span class="nomid">no mid-roll</span></div>
   <div class="covers">
     <div class="cov" data-var="A" data-head="THE ISLAMIC REPUBLIC IS THE PROBLEM" data-title="The Islamic Republic Itself Is the Problem">
       <button class="zoombtn" type="button" aria-label="Enlarge cover A"><img src="img/2026-08-10-ali-S16-A.jpg" alt="Cover A: THE ISLAMIC REPUBLIC IS THE PROBLEM" loading="lazy"><span class="zoomhint">Tap to enlarge</span></button>

diff --git a/guy-shows.html b/guy-shows.html
@@ -270,9 +270,9 @@ dialog img{display:block;max-width:94vw;max-height:88vh}
 </header>
 
 <!-- Self-checking freshness banner: the page compares its own build time against the clock. -->
-<div id="freshbar" class="fresh" data-built="2026-08-23T08:57:50Z">
+<div id="freshbar" class="fresh" data-built="2026-08-23T09:20:37Z">
   <div class="fresh-l">
-    <b id="freshtitle">This page was updated Sun Aug 23, 16:57</b>
+    <b id="freshtitle">This page was updated Sun Aug 23, 17:20</b>
     <span id="freshage"></span>
   </div>
   <span class="newtoday none" id="newtoday" data-new="0"

diff --git a/guy-picks.html b/guy-picks.html
@@ -1017,7 +1017,7 @@
     <textarea id="report" readonly></textarea>
     <p class="note">Copied. Paste it straight into Telegram.</p>
   </div>
-  <p class="built">50 topics across 6 streams. Updated 2026-08-23T08:57:51Z.</p>
+  <p class="built">50 topics across 6 streams. Updated 2026-08-23T09:20:38Z.</p>
 </div>
 
 <div class="bar">
